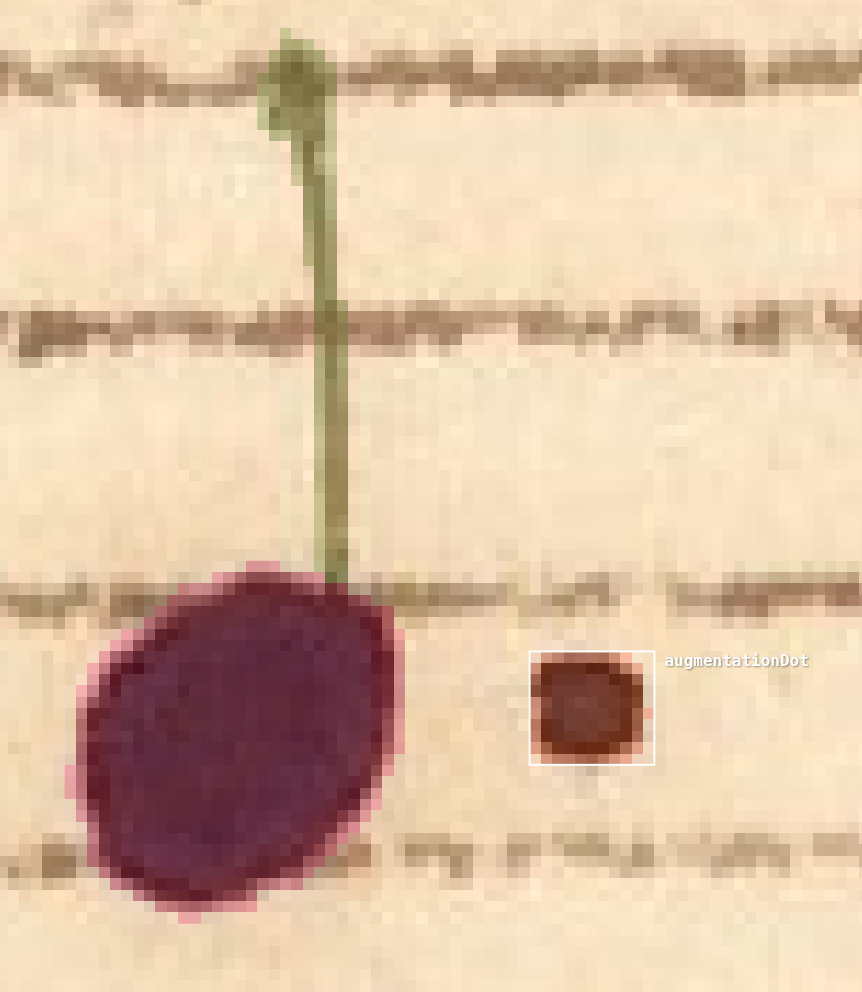
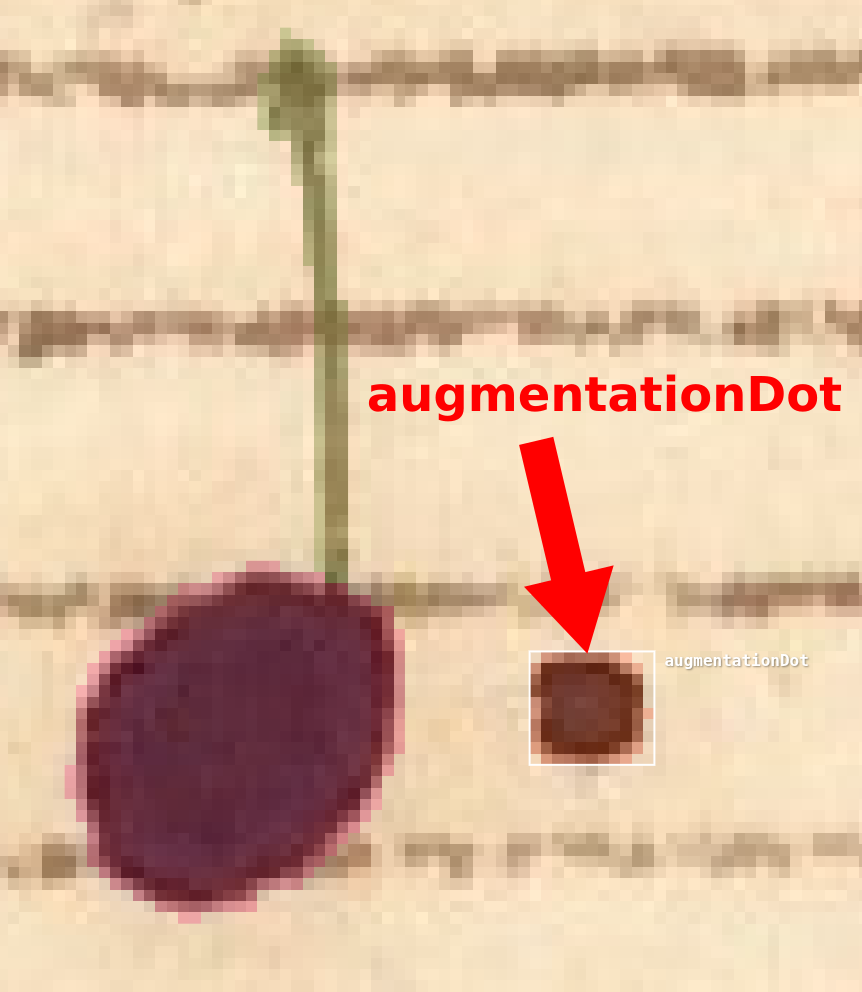
Prepare annotation instructions for review and TODOs

Changed region(s): [[0.4223, 0.375, 0.9954, 0.6562]]

diff --git a/docs/annotation-instructions/annotation-instructions.md b/docs/annotation-instructions/annotation-instructions.md
@@ -4,6 +4,12 @@
 - If you **finished a mask too early** but need to add more, simply **select the object** you want to modify and press `N`.
 Alternatively, select the object and click the “Edit nodes” icon (⬟) in the bottom panel.
 
+> **Note:**  
+> Some additional symbols that appear in the search list exist **only for compatibility with other datasets** - they are **not intended for annotators**.  
+>  
+> If you encounter a symbol that is **not listed in this guide**, **do not annotate it using an improvised or similar class name**.  
+> Instead, **ask for clarification** before proceeding.
+
 ## Classes
 
 ### noteheadWhole
@@ -46,6 +52,7 @@ Alternatively, select the object and click the “Edit nodes” icon (⬟) in th
 ---
 
 ### stem
+- The stem mask may **pass through the notehead and extend above it**. If it looks more like an irregular notehead (and not a visible overlap), you can **end the mask just below the head**.
 
 <p>
   <img src="./img/stem-1.png" alt="stem Example" width="150"/>
@@ -82,6 +89,7 @@ Flags are divided into separate classes according to their type and direction:
 ---
 
 ### beam
+- Use the same rule as for `stem and notehead`: if the stem clearly continues past the beam, **draw it through**; if not, **end it below**. Overlaps between symbols are fine.
 
 <p>
   <img src="./img/beam-1.png" alt="flag8thUp outer Example" width="290"/>
@@ -425,7 +433,7 @@ Used for **non-musical text elements** such as:
 
 ### barlineHeavy
 *(Called `barline_thick` in CVAT)*
-- Represents a **thick barline**, usually used at section endings
+- Represents a **thick barline**, usually used at section endings.
 
 <p>
   <img src="./img/barline-heavy-1.png" alt="barlineHeavy Example" width="250"/>
@@ -445,40 +453,130 @@ Used for **non-musical text elements** such as:
 ---
 
 ### staff
-- shlukuje 5 linek
-- potřeba, aby sedělo přesně na rohy
-- těsný box čar
+- Groups together the **five staff lines** that form a complete staff.  
+- The bounding box should **fit tightly** around the lines.  
+- Ensure the box aligns **exactly with the corners** of the staff.
+
+<p>
+  <img src="./img/staff-1.png" alt="staff Example" width="800"/>
+</p>
 
 ---
 
 ### staffGrouping
-- abstraktní shlukovač
-- obskurnější staff grouping https://github.com/orgs/OmniOMR/discussions/108#discussioncomment-13698771 
-- pravidla ke staff grouping https://github.com/orgs/OmniOMR/discussions/91#discussion-7177410 
+- An **abstract grouping class** for combining related staves or systems.
+
+**Note:**  
+If a system contains **multiple brackets, braces, and a barline**, annotate them as follows:
+- Each **barline** → `barlineSingle` 
+- Each **brace or bracket** → annotated individually as `brace` or `bracket`
+- Then create:
+  - **One long `staffGrouping`** spanning the entire barline, brace or bracket (covering all connected staves)  
+  - **Several shorter `staffGrouping` boxes**, each covering one brace or bracket
+
+- `staffGrouping` is usually annotated as a **rectangle or polygon** — not tightly around the line or brace. This means the **areas of multiple `staffGrouping` may overlap**, which is perfectly fine.
+
+In the example below, a **long `staffGrouping`** connects all staves via the main bracket,  
+while a **shorter `staffGrouping`** encloses the brace on the left side.
+
+<p>
+  <img src="./img/staff-grouping-1.png" alt="staffGrouping Example" width="200"/>
+</p>
+
+- Previous [CVAT staffGrouping rules](https://github.com/orgs/OmniOMR/discussions/91#discussion-7177410)
+
+---
 
 ### measureSeparator
+- The `staffGrouping` symbols define which staves belong to the same **system** (or **subsystem**) - for example, multi-staff instruments like piano, or sectional groupings in orchestral scores.
+- ⚠ At the **beginning of a system**, a `measureSeparator` should **not** be annotated, to avoid duplicating the final barline of the previous system.
+
+There should always be **exactly one continuous `measureSeparator` per system**,  
+regardless of how it appears visually:
+- It may be drawn as several **short individual barlines**,  
+- as one **long barline**,  
+- or a **combination** of both.
+
+The example below shows **four** `measureSeparator` **regions** (blue rectangles) spanning all staves, and **two** `staffGrouping` **boxes** at the start of the system.
+
+<p>
+  <img src="./img/measure-separator-1.png" alt="measureSeparator Example" width="600"/>
+</p>
+
+Similar case below (annotated in MuNG): The **fourth** `measureSeparator` should encompass **all four barlineHeavy** symbols that make up the double barlines.
+
+<p>
+  <img src="./img/measure-separator-2.png" alt="measureSeparator Example" width="700"/>
+</p>
+
+Previous [CVAT measureSeparator rules](https://github.com/orgs/OmniOMR/discussions/24)
+
+---
 
 ### keySignature
+- A **container (parent) symbol** representing the entire key signature.
+- Annotate it as a **convex hull (rough mask)** covering all the individual accidentals.
 
-### repetice se skládá z:
-#### repeat
-- maska
-#### bracket/barlineSingle/barlineHeavy
+<p>
+  <img src="./img/key-signature-1.png" alt="keySignature Example" width="300"/>
+</p>
+
+---
+
+### Repeat structure
+A **repetition mark** is composed of several elements:
+
 #### repeatDot
+- The **two dots** next to the barline indicating the repeat.  
+  Each dot should be annotated individually as a separate `repeatDot`.
+
+#### bracket / barlineSingle / barlineHeavy
+- The **barline or bracket components** that form the vertical part of the repeat symbol.
+
+#### repeat
+- The **container mask** that encloses the entire repeat sign (as a convex hull).
+
+### TODO: když se vyskytne
+podivná repetice. Jak značit šikmé dvojčárky? - když se znovu vyskytne, volat výš, tohle je potřeba dořešit
+
+<p>
+  <img src="./img/strange-repetition.png" alt="TODO: how to annotate strange repetition" width="200"/>
+</p>
+
+
+---
 
 ### splitBarDivider
 - napojení taktu (ta vlnovka na konci)
 
-### repeat1Bar
-- CVAT repeat_measure_sign
+<p>
+  <img src="./img/split-bar-divider-1.png" alt="splitBarDivider Example" width="300"/>
+</p>
+
+---
+
+### repeatOneBar
+- in CVAT `repeat_measure_sign`
+- `%`
+
+---
 
 ### unclassified
-- TODO: rozseknout, jestli je tahle kategorie potřeba a při jekých situacích
-- CVAT ufo
-- prosaky není potřeba řešit, pokud vyloženě neiterferujíc s notací (tzn. člověk by si špatně mohl vyložit)
-- vlasy, rozlitý kafe, rozpláclý mouchy dělám jako ufo area (ale dávám to jen tam, kde to zasahuje do not/osnov, zkrátka do čtení textu)
-- NEZNAČIT: hřbety knih a notaci na sousední stránce, věci které nevím jak značit (pokud nevím, zeptat se), symboly z předchozích stránek
-- prosak, co nevypadá jako by byl v popředí (takový duch) - udělat screen: https://ufallab.ms.mff.cuni.cz/~mayer/mung-studio/#/simple-backend/81c9f683-28d1-4e73-8e25-e37333408f5a_4a7de812-b895-4c1b-b785-d4c82f4e243a
+*(Called `ufo` in CVAT)*
+
+**TODO:** Vyřešit jestli je tahle třída opravdu potřeba.
+
+Use this class for **non-musical marks or noise** that appear on the page **only if they interfere with reading the notation**.
+
+- Examples include: stray hairs, spilled coffee, squashed insects, or other artifacts that overlap staves or notes.  
+- Do **NOT** annotate: book spines, notation on neighboring pages, symbols from previous pages, or anything you are unsure about — ask before labeling.
+
+- Marks that appear faintly in the background (like “ghost”  bleed-through) should NOT be annotated, only if they don't look like “ghosts”. 
+<p>
+  <img src="./img/bleed-through-1.png" alt="Bleed-through that should NOT be annotated" width="300"/>
+  <img src="./img/bleed-through-2.png" alt="Bleed-through that should NOT be annotated" width="320"/>
+</p>
+
 
 ### figuredBassText
 - konvexní obal skupinky
@@ -487,13 +585,5 @@ Used for **non-musical text elements** such as:
 - zatím pro to není třída
 
 ### TODO: “=”
-- TODO: není pro to maska - je to asi podobně rozšířené jako repeat_measure_sign!!! POTŘEBA VYŘEŠIT
+- TODO: není pro to maska - je to asi podobně rozšířené jako repeat_measure_sign (%)
 - dvě čáry - Píšou se, když má nástroj hrát unisono s jiným partem
-
-### TODO když se vyskytne
-repetice, takže vlnovky jako repeat_dot, šikmé dvojčárky možná jako "other" - taková ta divná repetice - voláme výš, tohle je potřeba dořešit
-
-`%` teď jsem našla, že asi Vojta to převádí ze CVATu do `repeatOneBar`
-
-
-další symboly co lze najít ve vyhledávání jsou pro kompatibilitu s jinýma datasetama - není pro anotátory - pokud tady není zaznačený znak, neznačit nějakým vymyšleným z možností, ale doptat se
